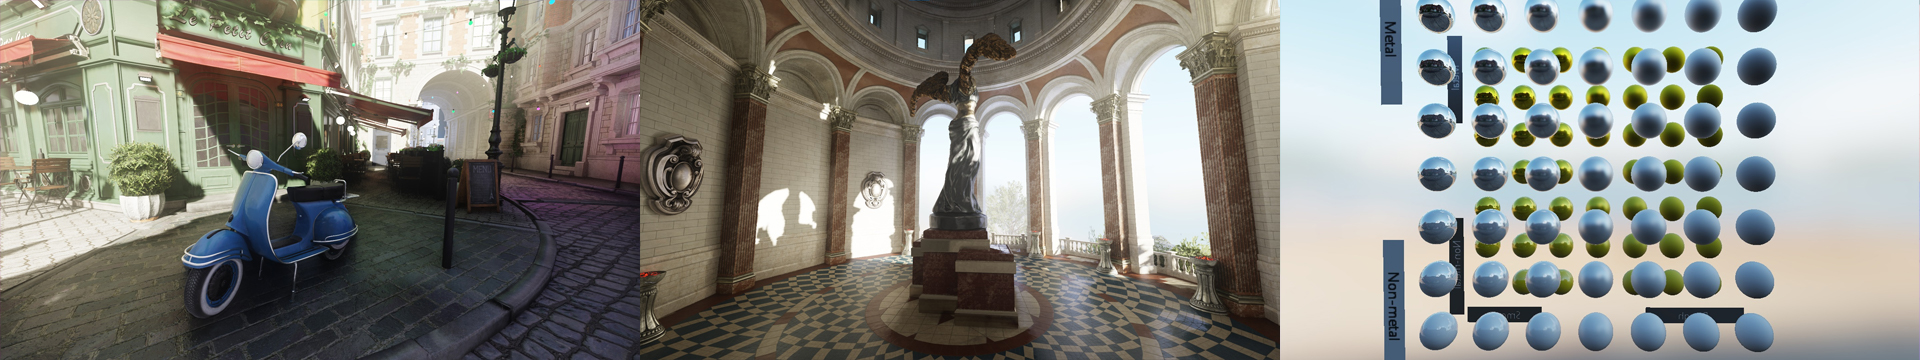
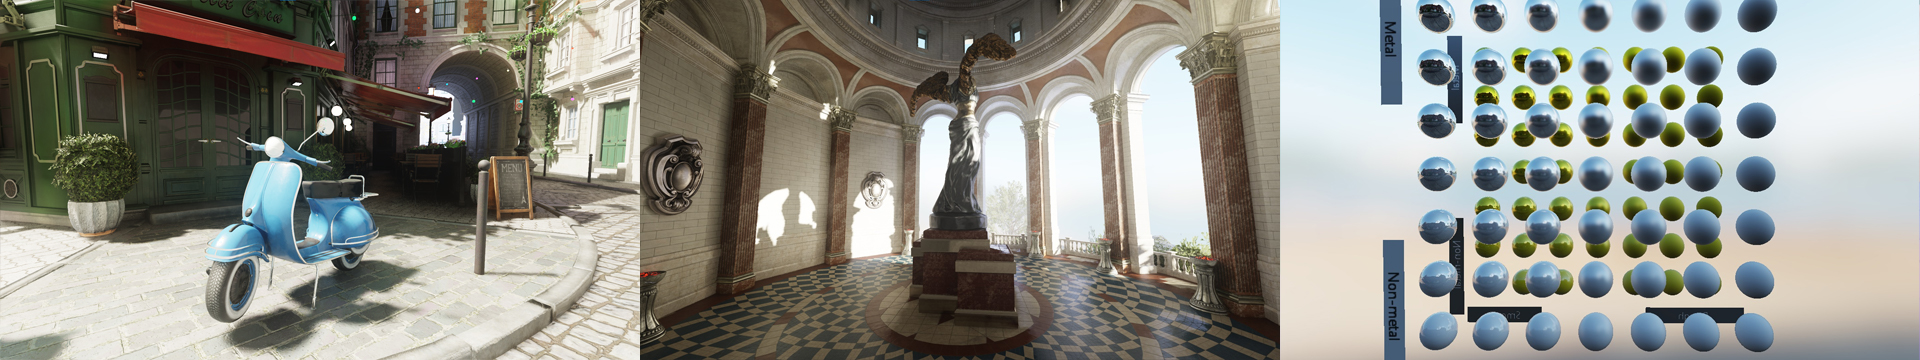
Add more screenshots

diff --git a/projects/vulkan_renderer/index.html b/projects/vulkan_renderer/index.html
@@ -1,4 +1,4 @@
-<!DOCTYPE html><html lang="en" data-astro-transition-scope="astro-smooz4hq-1"> <head><meta charset="utf-8"><meta name="description" content="Astro description"><meta name="viewport" content="width=device-width"><link rel="icon" type="image/svg+xml" href="/favicon.svg"><link rel="preconnect" href="https://fonts.googleapis.com"><link rel="preconnect" href="https://fonts.gstatic.com" crossorigin><link rel="preload" href="https://fonts.googleapis.com/css2?family=Josefin+Sans&family=Pacifico&display=swap" as="style"><link href="https://fonts.googleapis.com/css2?family=Josefin+Sans&family=Pacifico&display=swap" rel="stylesheet"><meta name="generator" content="Astro v4.16.7"><title>PBR renderer with real-time global illumination</title><style>#themeToggle[data-astro-cid-oemx5le4]{border:0;background:none}#themeToggle[data-astro-cid-oemx5le4]:hover{cursor:pointer;rotate:10deg}.moon[data-astro-cid-oemx5le4]{fill:#fdebf3}.sun[data-astro-cid-oemx5le4],.light .moon[data-astro-cid-oemx5le4]{fill:transparent}.light .sun[data-astro-cid-oemx5le4]{fill:#1e1e2e}@keyframes astroFadeInOut{0%{opacity:1}to{opacity:0}}@keyframes astroFadeIn{0%{opacity:0;mix-blend-mode:plus-lighter}to{opacity:1;mix-blend-mode:plus-lighter}}@keyframes astroFadeOut{0%{opacity:1;mix-blend-mode:plus-lighter}to{opacity:0;mix-blend-mode:plus-lighter}}@keyframes astroSlideFromRight{0%{transform:translate(100%)}}@keyframes astroSlideFromLeft{0%{transform:translate(-100%)}}@keyframes astroSlideToRight{to{transform:translate(100%)}}@keyframes astroSlideToLeft{to{transform:translate(-100%)}}@media (prefers-reduced-motion){::view-transition-group(*),::view-transition-old(*),::view-transition-new(*){animation:none!important}[data-astro-transition-scope]{animation:none!important}}
+<!DOCTYPE html><html lang="en" data-astro-transition-scope="astro-smooz4hq-1"> <head><meta charset="utf-8"><meta name="description" content="Astro description"><meta name="viewport" content="width=device-width"><link rel="icon" type="image/svg+xml" href="/favicon.svg"><link rel="preconnect" href="https://fonts.googleapis.com"><link rel="preconnect" href="https://fonts.gstatic.com" crossorigin><link rel="preload" href="https://fonts.googleapis.com/css2?family=Josefin+Sans&family=Pacifico&display=swap" as="style"><link href="https://fonts.googleapis.com/css2?family=Josefin+Sans&family=Pacifico&display=swap" rel="stylesheet"><meta name="generator" content="Astro v4.16.7"><title>PBR renderer with real-time dynamic global illumination</title><style>#themeToggle[data-astro-cid-oemx5le4]{border:0;background:none}#themeToggle[data-astro-cid-oemx5le4]:hover{cursor:pointer;rotate:10deg}.moon[data-astro-cid-oemx5le4]{fill:#fdebf3}.sun[data-astro-cid-oemx5le4],.light .moon[data-astro-cid-oemx5le4]{fill:transparent}.light .sun[data-astro-cid-oemx5le4]{fill:#1e1e2e}@keyframes astroFadeInOut{0%{opacity:1}to{opacity:0}}@keyframes astroFadeIn{0%{opacity:0;mix-blend-mode:plus-lighter}to{opacity:1;mix-blend-mode:plus-lighter}}@keyframes astroFadeOut{0%{opacity:1;mix-blend-mode:plus-lighter}to{opacity:0;mix-blend-mode:plus-lighter}}@keyframes astroSlideFromRight{0%{transform:translate(100%)}}@keyframes astroSlideFromLeft{0%{transform:translate(-100%)}}@keyframes astroSlideToRight{to{transform:translate(100%)}}@keyframes astroSlideToLeft{to{transform:translate(-100%)}}@media (prefers-reduced-motion){::view-transition-group(*),::view-transition-old(*),::view-transition-new(*){animation:none!important}[data-astro-transition-scope]{animation:none!important}}
 :root{--background: #1e1e2e;--background-light: #ffffff;--button: #78c2ad;--text: #fff7f7;--text-light: #2e2a1e;--text-link: #78c2ad;--underline: #375a7f;--header: "Cambria";--body: "Josefin Sans", sans-serif}html{background-color:var(--background);color:var(--text)}body{max-width:780px;margin:0 auto;text-align:justify}h1,h2{font-family:var(--header);font-weight:400}h1{font-size:2.6rem;margin:0 0 5px}h2{text-decoration:underline var(--underline);text-decoration-thickness:4px;text-underline-offset:7px;font-size:2.1rem;margin-bottom:0}p{font-family:var(--body);font-size:1.1rem;hyphens:None;line-height:1.5;text-indent:1rem}small,li{font-family:var(--body)}.navbar{display:grid;grid-template-columns:1fr 1fr;margin-top:.8rem}.navbar__title{font-family:var(--header);font-size:1.3rem}.navbar__menu{font-family:var(--body);font-size:1.1rem;text-align:right}.navbar__title>a,.navbar__menu>a{color:var(--text);text-decoration:none}.navbar__menu>a{margin:0 10px}.navbar__title>a:hover,.navbar__menu>a:hover,.navbar__menu>a:focus{text-decoration:underline var(--underline);text-decoration-thickness:2px;text-underline-offset:6px}.gif{margin:20px 0 0;text-align:center}.badge{background-color:#494b66;color:var(--text);border-radius:6px;font-family:var(--body);font-weight:600;font-size:.85rem;padding:.3em .6em .2em;margin-right:3px}.badge__list{text-indent:1rem;list-style:none;padding:0}.badge__list>li{margin-top:10px}.badge--item{border-radius:4px;font-size:.7rem;margin-right:5px;padding:.5em .3em .3em}.badge__link{color:var(--text-link);text-decoration:none}.badge__link:hover{text-decoration:underline}.card{list-style:none;display:flex;background-size:400%;padding:20px}.card__link{width:100%;text-decoration:none;line-height:1.4;border-radius:8px;color:var(--text)}.card__img{border-radius:5px}.card__title{margin:0;font-family:var(--body);font-size:1.5rem;font-weight:400;text-align:left}.card__txt{font-size:1rem;line-height:1.5;text-indent:0;text-align:left;margin:.5rem 0 0}.card__link:hover{transform:scale(1.05)}.link-card-grid{display:grid;grid-template-columns:repeat(auto-fit,minmax(50ch,1fr));gap:1rem;padding:0}.btn{text-align:center;background:#0000;border:2px solid var(--button);border-radius:8px;color:var(--text);font:600 16px var(--body);padding:8px 16px;transition:background-color .4s,color .4s}.btn:hover{background-color:var(--button);color:var(--text-light);cursor:pointer}.skills{margin-top:8px}.skills__img{margin:8px 4px}.center{text-align:center}.pro-img{border-radius:16px;margin-top:10px}footer{margin:4rem 0}.footer__link{color:var(--text-link);text-decoration:none}.footer{cursor:default;list-style:none;padding:0}.icon__btn{display:inline-block;padding:0 .5rem}.icon__link{display:flex;padding:10px;height:20px;width:20px;border-radius:50%;border:2px solid #fdebf3}.icon__link:hover{border-color:var(--text-link)}.git-icon{content:url(/github-mark-white.svg)}.mail-icon{content:url(/mail-white.svg)}.linked-in{content:url(/li-in-white.png)}.lost{margin-top:30%;text-align:center}.lost__header{margin:0 auto;text-align:center;border:0;font-size:7.5rem;letter-spacing:10px}.lost__body{color:#5c5b77}.lost__link{color:var(--text-link);text-decoration:none}html.light{background-color:var(--background-light);color:var(--text-light)}.light .navbar__title>a{color:var(--text-light)}.light .navbar__menu>a{color:var(--text-light)}.light .card__title,.light .card__txt,.light .btn{color:var(--text-light)}.light .btn:hover{color:var(--text)}.light .icon__link{border:2px solid var(--text-light)}.light .icon__link:hover{border-color:var(--text-link)}.light .git-icon{content:url(/github-mark.svg)}.light .mail-icon{content:url(/mail.svg)}.light .linked-in{content:url(/li-in.png)}.light .badge__link{color:var(--text-link)}@media only screen and (max-width: 600px){body{width:350px}.navbar{display:initial}.navbar__title,.navbar__menu{text-align:center}.navbar__menu>a{margin:0 11px}.skills__img{height:30px;width:30px;margin:8px 1px}.badge__list{font-size:.9rem;text-indent:0}.pro-img{height:auto;width:350px}}
 </style><script type="module">function e(){localStorage.theme==="light"||!("theme"in localStorage)&&window.matchMedia("(prefers-color-scheme: light)").matches?document.documentElement.classList.add("light"):document.documentElement.classList.remove("light")}e();document.addEventListener("astro:after-swap",e);
 </script><style>[data-astro-transition-scope="astro-smooz4hq-1"] { view-transition-name: astro-smooz4hq-1; }@layer astro { ::view-transition-old(astro-smooz4hq-1) { animation: none; opacity: 0; mix-blend-mode: normal; }::view-transition-new(astro-smooz4hq-1) { animation: none; mix-blend-mode: normal; }::view-transition-group(astro-smooz4hq-1) { animation: none } }[data-astro-transition-fallback="old"] [data-astro-transition-scope="astro-smooz4hq-1"],
@@ -31,19 +31,22 @@
     }
 
     document.getElementById("themeToggle").addEventListener("click", handleToggleClick);
-</script> </div> </div> </nav> </header> <main>  <h2>PBR renderer with real-time global illumination</h2>  <p><span class="badge">C++</span>
+</script> </div> </div> </nav> </header> <main>  <h2>PBR renderer with real-time dynamic global illumination</h2>  <p><span class="badge">C++</span>
 <span class="badge">Vulkan</span>
 <span class="badge">GLSL</span></p>
-<p>Renderer written in C++ and Vulkan to study modern physically-based rendering techniques, and to experiment with a voxel-based global illumination solution.</p>
+<p>Renderer written in C++ and Vulkan to study modern physically-based rendering techniques and to experiment with a voxel-based global illumination technique.</p>
 <p><a href="https://github.com/EeroMutka/Vulkan-PBR-Renderer">Link to the GitHub page</a></p>
 <br>
-<iframe allow="fullscreen;" width="100%" height="400" src="https://www.youtube.com/embed/DZkTVobNMT4" &#x22;=""></iframe>
+<img src="/vulkan_renderer_data/bistro.jpg" style="width:100%;">
+<i>A screenshot from the renderer using the <a href="https://developer.nvidia.com/orca/amazon-lumberyard-bistro">Amazon Lumberyard Bistro</a> scene</i><br>
 <br>
-<i>Showcase of the renderer with the <a href="https://developer.nvidia.com/ue4-sun-temple">Sun Temple</a> scene</i>
+<iframe allow="fullscreen;" width="100%" height="400" src="https://www.youtube.com/embed/DZkTVobNMT4" &#x22;=""></iframe>
+<i>A video showcase of the renderer using the <a href="https://developer.nvidia.com/ue4-sun-temple">UE4 Sun Temple</a> scene</i><br>
+<br>
 <h2>About</h2>
 <p>My goal for this project was to get more familiar with Vulkan and modern rendering techniques and to build a polished and pretty renderer. In the past, I had experimented with graphics and shader programming, but never really made anything polished, and I really wanted to put my learnings together.</p>
 <p>After I got a triangle up and running, I started writing a graphics abstraction layer to make iteration and dealing with Vulkan easier. I continued to iterate on it as I started adding more features, such as texturing and 3D model loading. I researched physically based rendering techniques as I implemented simple physically based environment lighting. This was a big milestone!</p>
-<img src="/vulkan_renderer_data/pbr_spheres.png" style="width:100%;">
+<img src="/vulkan_renderer_data/pbr_spheres.jpg" style="width:100%;">
 <i>Physically based rendering with image-based lighting.</i>
 <p>For loading textured fbx files, such as the sun temple, I started using <a href="https://github.com/assimp/assimp">Assimp</a> and <a href="https://github.com/redorav/ddspp">DDSPP</a>. For organizing the draw calls, I kept it simple and split the scene into N descriptor sets / draw calls, N being the number of materials in the FBX file. To give more power to the post-processing shaders, I added a G-buffer for the base-color, normal, occlusion-roughness-metallic and emissive channels. I added a directional sunlight that uses a 2048x2048 depth map for shadow mapping. I'm using a `samplerShadow` in GLSL for percentage-closer filtering and use 4 shadow map samples in a rotated-square pattern as I found it gives the nicest look.</p>
 <p>I also implemented bloom, following the article <a href="https://learnopengl.com/Guest-Articles/2022/Phys.-Based-Bloom">Physically Based Bloom</a>. It's a sun temple after all! It was looking nice, but there were lots of bright pixels ("fireflies") here and there even after I added weighted averaging as suggested. My dumb solution was to limit the dynamic range of the first downsample pass using `value = min(value, vec3(1));`. From my testing, this gives a nicer result than the suggested methods.</p>
@@ -52,12 +55,18 @@
 <p>First, I made an experiment in 2D:</p>
 <iframe allow="fullscreen;" width="100%" height="400" src="https://www.youtube.com/embed/A5pfLBzvuzE" &#x22;=""></iframe>
 <p>It was looking promising, so I took it to 3D:</p>
-<img src="/vulkan_renderer_data/sponza_gi.png" style="width:100%;">
+<img src="/vulkan_renderer_data/sponza_gi.jpg" style="width:100%;">
 <p>It was noisy, but it was working! In the above pictures and the final demo, I'm using a resolution of 128x128x128 for the light grid which covers the entire world.</p>
 <p>It then added the code into the main renderer. I made the voxelization shader calculate a direct lighting value using the sun depth buffer and write it into the light grid. This means that the spots where the sun hits are a source of light for the flooding stage. In the following image, you can see the light grid visualized by ray tracing into it. For rough reflections and ambient light, it can be useful to not trace all the way, but to accumulate light on the path as if it was fog. This reduces noise since there is less variation between the directions. You can see the "foggy" version on the bottom.</p>
-<img src="/vulkan_renderer_data/light_grid.png" style="width:100%;">
+<img src="/vulkan_renderer_data/light_grid.jpg" style="width:100%;">
 <p>For sampling the light grid in the main pixel shader, my idea was to shoot screen-space rays and use the depth buffer for small-scale details, as the voxel light grid is very coarse and isn't enough to give good results. Using a low-frequency noise function for deciding sampling direction helps a lot, as well as temporal anti-aliasing. I ended up going with interleaved gradient noise thanks to its natural look. It's not perfect as it introduces some bias (e.g. see the dark spots on the wall in the middle of the image). As an extra optimization / noise reduction idea for the future, the rays could be sent in half or quarter resolution upscaled using an edge-aware blur.</p>
-<img src="/vulkan_renderer_data/sampling.png" style="width:100%;">
+<img src="/vulkan_renderer_data/sampling.jpg" style="width:100%;">
 <p>Implementing the ray sampling function that partly uses screen-space buffers and partly the 3D grid was tricky. Getting rid of light leaks and dark areas of over-occlusion was difficult to balance. Just relying on the depth-buffer is not enough to be confident to know when the ray hits a surface, because you can't know how deep some surface point in the depth buffer is. I use the 3D light grid to check for that, which helps. It's not perfect, but I'm still pretty happy with the overall result.</p>
 <p>Throughout this process, a big help has been that I implemented shader hotreloading early on. It's so much easier to play around and try new things. Starting small in 2D and making my rendering experiments first in their own demos was also helpful. It made debugging and experimenting on those specific things easier, without worrying about all the other features that would be required in the full version. Overall, this project has taught me a lot about graphics programming and Vulkan and has been very fun to work on!</p>
-<img src="/vulkan_renderer_data/final_1.png" style="width:100%;">   <footer> <div class="center"> <ul class="footer"> <li class="icon__btn"><a class="icon__link" href="https://github.com/eeromutka" target="_blank"><span class="git-icon">GitHub</span></a></li> <li class="icon__btn"><a class="icon__link" href="mailto: eero.mutka@gmail.com"><span class="mail-icon">Email</span></a></li> <li class="icon__btn"><a class="icon__link" href="https://www.linkedin.com/in/eero-mutka/" target="_blank"><span class="linked-in">LinkedIn</span></a></li> </ul> <small>&copy; 2024 Eero Mutka</small> </div> </footer> </main>  </body> </html>
+<h2>Gallery</h2>
+<br>
+<img src="/vulkan_renderer_data/bistro1.jpg" style="width:100%;">
+<img src="/vulkan_renderer_data/bistro3.jpg" style="width:100%;">
+<img src="/vulkan_renderer_data/bistro2.jpg" style="width:100%;">
+<img src="/vulkan_renderer_data/bistro4.jpg" style="width:100%;">
+<i>The above screenshots are renderings of the exterior / interior versions of the <a href="https://developer.nvidia.com/orca/amazon-lumberyard-bistro">Amazon Lumberyard Bistro</a> scene.</i><br>   <footer> <div class="center"> <ul class="footer"> <li class="icon__btn"><a class="icon__link" href="https://github.com/eeromutka" target="_blank"><span class="git-icon">GitHub</span></a></li> <li class="icon__btn"><a class="icon__link" href="mailto: eero.mutka@gmail.com"><span class="mail-icon">Email</span></a></li> <li class="icon__btn"><a class="icon__link" href="https://www.linkedin.com/in/eero-mutka/" target="_blank"><span class="linked-in">LinkedIn</span></a></li> </ul> <small>&copy; 2024 Eero Mutka</small> </div> </footer> </main>  </body> </html>

diff --git a/projects/index.html b/projects/index.html
@@ -31,4 +31,4 @@
     }
 
     document.getElementById("themeToggle").addEventListener("click", handleToggleClick);
-</script> </div> </div> </nav> </header> <main>  <div class="gif"> <img width="300" height="259" alt="RaccoonLaptopGif" src="/laptop.webp"> </div> <h2>Projects</h2> <ul role="list" class="link-card-grid"> <li class="card"> <a class="card__link" href="/projects/csg_editor/"> <div class="center"> <img class="card__img" width="100%" height="100%" src="/projects/RugRacersImage2.jpg" alt="ProjectImage"> </div> <h3 class="card__title"> CSG-based level geometry editor </h3> <span class="badge"></span> <span class="badge">Raylib</span> <span class="badge">GLSL</span> <p class="card__txt"> A 3D level editor with real-time constructive solid geometry editing. </p> <p class="card__txt">  </p> </a> </li><li class="card"> <a class="card__link" href="/projects/imgui/"> <div class="center"> <img class="card__img" width="100%" height="100%" src="/projects/RugRacersImage2.jpg" alt="ProjectImage"> </div> <h3 class="card__title"> Immediate-mode UI library </h3> <span class="badge"></span> <span class="badge">Raylib</span> <span class="badge">GLSL</span> <p class="card__txt">  </p> <p class="card__txt">  </p> </a> </li><li class="card"> <a class="card__link" href="/projects/mortal_shell/"> <div class="center"> <img class="card__img" width="100%" height="100%" src="/projects/RugRacersImage2.jpg" alt="ProjectImage"> </div> <h3 class="card__title"> Mortal Shell </h3> <span class="badge"></span> <span class="badge">Raylib</span> <span class="badge">GLSL</span> <p class="card__txt"> Mortal Shell is a soulslike action-RPG for PC and consoles. I worked on the game as a gameplay programmer as part of a 15-person team </p> <p class="card__txt">  </p> </a> </li><li class="card"> <a class="card__link" href="/projects/rug_racers/"> <div class="center"> <img class="card__img" width="100%" height="100%" src="/projects/RugRacersImage2.jpg" alt="ProjectImage"> </div> <h3 class="card__title"> Rug Racers: Ultimate </h3> <span class="badge"></span> <span class="badge">Raylib</span> <span class="badge">GLSL</span> <p class="card__txt"> Rug Racers: Ultimate is an arcade PvP racing game where you control an actual carpet. It was built during 10 weeks with a team of 6 students. I was the lead programmer and worked on gameplay, rendering, input, physics and tools. </p> <p class="card__txt">  </p> </a> </li><li class="card"> <a class="card__link" href="/projects/vulkan_renderer/"> <div class="center"> <img class="card__img" width="100%" height="100%" src="/projects/RugRacersImage2.jpg" alt="ProjectImage"> </div> <h3 class="card__title"> PBR renderer with real-time global illumination </h3> <span class="badge"></span> <span class="badge">Raylib</span> <span class="badge">GLSL</span> <p class="card__txt">  </p> <p class="card__txt">  </p> </a> </li> </ul>  <footer> <div class="center"> <ul class="footer"> <li class="icon__btn"><a class="icon__link" href="https://github.com/eeromutka" target="_blank"><span class="git-icon">GitHub</span></a></li> <li class="icon__btn"><a class="icon__link" href="mailto: eero.mutka@gmail.com"><span class="mail-icon">Email</span></a></li> <li class="icon__btn"><a class="icon__link" href="https://www.linkedin.com/in/eero-mutka/" target="_blank"><span class="linked-in">LinkedIn</span></a></li> </ul> <small>&copy; 2024 Eero Mutka</small> </div> </footer> </main>  </body> </html>
+</script> </div> </div> </nav> </header> <main>  <div class="gif"> <img width="300" height="259" alt="RaccoonLaptopGif" src="/laptop.webp"> </div> <h2>Projects</h2> <ul role="list" class="link-card-grid"> <li class="card"> <a class="card__link" href="/projects/csg_editor/"> <div class="center"> <img class="card__img" width="100%" height="100%" src="/projects/RugRacersImage2.jpg" alt="ProjectImage"> </div> <h3 class="card__title"> CSG-based level geometry editor </h3> <span class="badge"></span> <span class="badge">Raylib</span> <span class="badge">GLSL</span> <p class="card__txt"> A 3D level editor with real-time constructive solid geometry editing. </p> <p class="card__txt">  </p> </a> </li><li class="card"> <a class="card__link" href="/projects/imgui/"> <div class="center"> <img class="card__img" width="100%" height="100%" src="/projects/RugRacersImage2.jpg" alt="ProjectImage"> </div> <h3 class="card__title"> Immediate-mode UI library </h3> <span class="badge"></span> <span class="badge">Raylib</span> <span class="badge">GLSL</span> <p class="card__txt">  </p> <p class="card__txt">  </p> </a> </li><li class="card"> <a class="card__link" href="/projects/mortal_shell/"> <div class="center"> <img class="card__img" width="100%" height="100%" src="/projects/RugRacersImage2.jpg" alt="ProjectImage"> </div> <h3 class="card__title"> Mortal Shell </h3> <span class="badge"></span> <span class="badge">Raylib</span> <span class="badge">GLSL</span> <p class="card__txt"> Mortal Shell is a soulslike action-RPG for PC and consoles. I worked on the game as a gameplay programmer as part of a 15-person team </p> <p class="card__txt">  </p> </a> </li><li class="card"> <a class="card__link" href="/projects/rug_racers/"> <div class="center"> <img class="card__img" width="100%" height="100%" src="/projects/RugRacersImage2.jpg" alt="ProjectImage"> </div> <h3 class="card__title"> Rug Racers: Ultimate </h3> <span class="badge"></span> <span class="badge">Raylib</span> <span class="badge">GLSL</span> <p class="card__txt"> Rug Racers: Ultimate is an arcade PvP racing game where you control an actual carpet. It was built during 10 weeks with a team of 6 students. I was the lead programmer and worked on gameplay, rendering, input, physics and tools. </p> <p class="card__txt">  </p> </a> </li><li class="card"> <a class="card__link" href="/projects/vulkan_renderer/"> <div class="center"> <img class="card__img" width="100%" height="100%" src="/projects/RugRacersImage2.jpg" alt="ProjectImage"> </div> <h3 class="card__title"> PBR renderer with real-time dynamic global illumination </h3> <span class="badge"></span> <span class="badge">Raylib</span> <span class="badge">GLSL</span> <p class="card__txt">  </p> <p class="card__txt">  </p> </a> </li> </ul>  <footer> <div class="center"> <ul class="footer"> <li class="icon__btn"><a class="icon__link" href="https://github.com/eeromutka" target="_blank"><span class="git-icon">GitHub</span></a></li> <li class="icon__btn"><a class="icon__link" href="mailto: eero.mutka@gmail.com"><span class="mail-icon">Email</span></a></li> <li class="icon__btn"><a class="icon__link" href="https://www.linkedin.com/in/eero-mutka/" target="_blank"><span class="linked-in">LinkedIn</span></a></li> </ul> <small>&copy; 2024 Eero Mutka</small> </div> </footer> </main>  </body> </html>

diff --git a/index.html b/index.html
@@ -35,10 +35,10 @@
 </script> </div> </div> </nav> </header> <main> <br data-astro-cid-j7pv25f6><br data-astro-cid-j7pv25f6><br data-astro-cid-j7pv25f6><br data-astro-cid-j7pv25f6><h1 data-astro-cid-j7pv25f6>Eero Mutka</h1><span class="badge" data-astro-cid-j7pv25f6>Game & Engine Programmer</span><br data-astro-cid-j7pv25f6><br data-astro-cid-j7pv25f6><p data-astro-cid-j7pv25f6>
 I'm Eero, a game programmer with a special focus on engine, graphics and tools programming. I'm passionate about solving technical challenges with the goal of making games that are full of creativity, love and technical innovation.
 </p><p data-astro-cid-j7pv25f6>
-On this page, you can find my past projects that I'm the most proud of :)
+On this page, you can find my past projects that I'm the proudest of :)
 </p><h2 data-astro-cid-j7pv25f6>Projects</h2><li class="card" data-astro-cid-j7pv25f6><a class="card__link" href="/projects/csg_editor" data-astro-cid-j7pv25f6><div class="center" data-astro-cid-j7pv25f6><img class="card__img" width="100%" height="100%" src="/csg_editor_banner.jpg" alt="ProjectImage" data-astro-cid-j7pv25f6></div><h3 class="card__title" data-astro-cid-j7pv25f6>CSG-based level geometry editor</h3><span class="badge" data-astro-cid-j7pv25f6>C++</span><span class="badge" data-astro-cid-j7pv25f6>D3D11</span><p class="card__txt" data-astro-cid-j7pv25f6>
 A 3D level editor with real-time constructive solid geometry editing.
-</p></a></li><li class="card" data-astro-cid-j7pv25f6><a class="card__link" href="/projects/vulkan_renderer" data-astro-cid-j7pv25f6><div class="center" data-astro-cid-j7pv25f6><img class="card__img" width="100%" height="100%" src="/pbr_renderer_banner.jpg" alt="ProjectImage" data-astro-cid-j7pv25f6></div><h3 class="card__title" data-astro-cid-j7pv25f6>PBR renderer with real-time global illumination</h3><span class="badge" data-astro-cid-j7pv25f6>C++</span><span class="badge" data-astro-cid-j7pv25f6>Vulkan</span><span class="badge" data-astro-cid-j7pv25f6>GLSL</span><span class="badge" data-astro-cid-j7pv25f6>Source on GitHub!</span><p class="card__txt" data-astro-cid-j7pv25f6>
+</p></a></li><li class="card" data-astro-cid-j7pv25f6><a class="card__link" href="/projects/vulkan_renderer" data-astro-cid-j7pv25f6><div class="center" data-astro-cid-j7pv25f6><img class="card__img" width="100%" height="100%" src="/pbr_renderer_banner.jpg" alt="ProjectImage" data-astro-cid-j7pv25f6></div><h3 class="card__title" data-astro-cid-j7pv25f6>PBR renderer with real-time dynamic global illumination</h3><span class="badge" data-astro-cid-j7pv25f6>C++</span><span class="badge" data-astro-cid-j7pv25f6>Vulkan</span><span class="badge" data-astro-cid-j7pv25f6>GLSL</span><span class="badge" data-astro-cid-j7pv25f6>Source on GitHub!</span><p class="card__txt" data-astro-cid-j7pv25f6>
 Renderer written in C++ and Vulkan to study modern physically-based rendering techniques and to experiment with a voxel-based dynamic global illumination technique.
 </p></a></li><li class="card" data-astro-cid-j7pv25f6><a class="card__link" href="/projects/rug_racers" data-astro-cid-j7pv25f6><div class="center" data-astro-cid-j7pv25f6><img class="card__img" width="100%" height="100%" src="/rug_racers_data/banner.jpg" alt="ProjectImage" data-astro-cid-j7pv25f6></div><h3 class="card__title" data-astro-cid-j7pv25f6>Rug Racers: Ultimate</h3><span class="badge" data-astro-cid-j7pv25f6>C++</span><span class="badge" data-astro-cid-j7pv25f6>Raylib</span><p class="card__txt" data-astro-cid-j7pv25f6>
 Rug Racers: Ultimate is an arcade PvP racing game where you control an actual carpet. Built during 10 weeks with a team of 6 people. I was the lead programmer and worked on gameplay, rendering, input, physics and tools.

diff --git a/projects/mortal_shell/index.html b/projects/mortal_shell/index.html
@@ -37,7 +37,7 @@
 <p><a href="https://store.steampowered.com/app/1110910/Mortal_Shell/">Link to the Steam page</a></p>
 <iframe allow="fullscreen;" width="100%" height="400" src="https://www.youtube.com/embed/P9xAmeZ6mG0" &#x22;=""></iframe>
 <br>
-<p>My role as a gameplay programmer was to implement and refine gameplay mechanics, interactable objects and enemy/boss interactions, and of course to fix bugs. I mainly worked inside UE4's blueprints, building gameplay logic and connecting effects like sounds, particle effects and animations together. A lot of my work had to do with timing and curves; I often used UE4's blueprint timelines for making the mechanics feel juicy. The team was relatively small, and I was given a lot of artistic freedom for the design and implementation of mechanics.</p>
+<p>My role as a gameplay programmer was to implement and refine gameplay mechanics, interactable objects and enemy/boss interactions, and of course to fix bugs. I mainly worked inside UE4's blueprints, building gameplay logic and connecting effects like sounds, particle effects and animations together. The team was relatively small, and I was given a lot of freedom for the direction and implementation of the mechanics.</p>
 <br>
 <iframe allow="fullscreen;" width="100%" height="400" src="https://www.youtube.com/embed/_x_g0NE_mWE?start=258" &#x22;=""></iframe>
 <i>See 4:18 for the radial wave attack</i><br>
